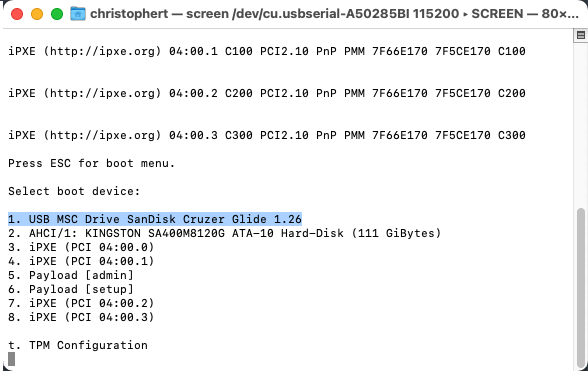
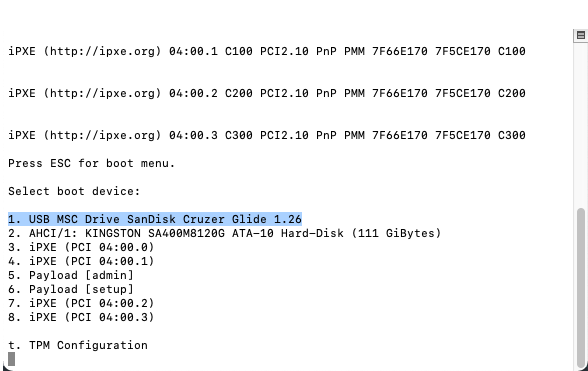
updates per review and meeting input

Changed region(s): [[0.0, 0.0, 0.9796, 0.0593], [0.9796, 0.0, 1.0, 0.0296]]

diff --git a/docs/onboard_ssr_device_otp.md b/docs/onboard_ssr_device_otp.md
@@ -3,7 +3,7 @@ title: Onboard an SSR Device using OTP
 sidebar_label: Onboard an SSR Device using OTP
 ---
 
-The steps in this section describe the process of **re-imaging an SSR1x0 or SSR1x00** for onboarding to a Conductor using the OTP process. This process is for SSR devices that **can not** use Mist for onboarding, telemetry, or WAN Assurance. 
+The steps in this section describe the process of **re-imaging an SSR1x0 or SSR1x00** for onboarding to a Conductor using the OTP process. This process is for SSR devices that **cannot** use Mist for onboarding, telemetry, or WAN Assurance. 
 
 :::important
 For customers or partners who can access Mist and are not in an "air-gap" network, the easiest way to onboard an SSR Device is to configure an account on Mist (this is free), and onboard to a conductor using ZTP. This provides a simple conductor onboarding process, and does not require access to Mist after the onboarding. See [ZTP Onboarding to a Conductor.](config_wan_assurance.md) **This process provides the ability to perform conductor-managed onboarding for customers who will not be using Mist Telemetry or WAN Assurance.**  
@@ -11,7 +11,7 @@ For customers or partners who can access Mist and are not in an "air-gap" networ
 
 ## Re-Imaging Process
 
-The image shipped on the SSR Devices is designed to connect with Mist and Mist WAN Assurance. To use these devices in a conductor-managed environment that does not have access to Mist, re-image the SSR Device with a generally available, package-based, OTP-compatible SSR software release. 
+The image shipped on the SSR Devices is designed to connect with Mist and Mist WAN Assurance. To use these devices in a conductor-managed environment that does not have access to Mist, re-image the SSR Device with a generally available, package-based, OTP-compatible SSR software release. The minimum requirement for re-imaging is SSR Version 5.4.9. OTP software images are located at the following location:
 
 <!-- markdown-link-check-disable-next-line -->
 - https://software.128technology.com/artifactory/list/generic-128t-isos-release-local
@@ -21,18 +21,16 @@ You will be prompted for your username and token to access the web page listing 
 See [Downloading an ISO](intro_downloading_iso.md#downloading-an-iso) for important information about the download process.
 
 :::note
-Use of non-GA, unofficial software releases will void the Juniper device warranty. Refer to [SSR Releases - General Availability](about_releases.mdx#general-availability) for the list of GA releases.
+Use of a non-GA software release will void the Juniper device warranty. Refer to [SSR Releases - General Availability](about_releases.mdx#general-availability) for the list of GA releases.
 :::
 
 ### Prerequisites
 
-- To successfully onboard an SSR using OTP, you must already have a Conductor up and running in the network where the SSR router can connect and receive configuration information. 
+- To successfully onboard an SSR using OTP, you must already have a [Conductor up and running](install_conductor_overview.md) in the network where the SSR router can connect and receive configuration information. 
 
 - The conductor **must have** a software version equal to or greater than the version that will be installed on the routers using OTP. 
 
-- To retain a valid warranty, the software used to re-image the SSR device must be an [**official Juniper GA Release of the SSR Software**](about_releases.mdx#general-availability), and a version equal to or greater than the version shipped on the device. 
-
-- An SSR1x0/1x00 may not be converted for use as a conductor. 
+- To retain a valid warranty, the software used to re-image the SSR device must be an [**official Juniper GA Release of the SSR Software**](about_releases.mdx#general-availability), and at a minumum, version 5.4.9. 
 
 ## OTP Re-Imaging Process
 
@@ -51,14 +49,15 @@ The process varies based on the SSR Device, as well as Mac and Windows.
 ```
 	ls -al /dev/*usb*
 ```
-7. In the terminal window, type `screen`, paste the serial port info, and add the baud rate. 
+7. Copy the serial port info displayed after running the command above. 
+8. In the terminal window, type `screen`, paste the serial port info, and add the baud rate as shown in the example below. 
 ```
-	screen /dev/cu.usbserial-A50285BI 115200
+	screen /dev/tty.usbserial-A50285BI 115200
 ```
-8. Press Enter.
-9. Insert your USB with the new ISO image into the USB port of the SSR device.
-10. Power up the SSR device. 
-11. Use the instructions below appropriate for your device (SSR1x0 or SSR1x00) to complete the re-imaging process.
+9. Press Enter.
+10. Insert your USB with the new ISO image into the USB port of the SSR device.
+11. Power up the SSR device. 
+12. Use the instructions below appropriate for your device (SSR1x0 or SSR1x00) to complete the re-imaging process.
 
 #### SSR1x0 Devices
 
@@ -93,7 +92,7 @@ The process varies based on the SSR Device, as well as Mac and Windows.
 2. Connect the RJ45/USB cable to the console port on the SSR1x0/1x00.
 3. Connect the USB end of the cable to your laptop.
 4. Connect the power input to the back of the SSR1x0/1x00, but do not power it up. 
-5. From the Windows Device Manager, open a PuTTY session, and select the serial port and baud rate.
+5. From the Windows Device Manager, open a [PuTTY](https://www.putty.org/) session, and select the serial port and baud rate.
 	
 	![PuTTY window](/img/putty-window.png)
 
@@ -105,7 +104,7 @@ The process varies based on the SSR Device, as well as Mac and Windows.
 
 1. At the instruction in the terminal window: `Press ESC for the boot menu`, do so. 
 
-	![Boot Menu prompt](/img/putty-ssr1x0-boot-menu.png)
+	![Boot Menu prompt](/img/onboard_otp_boot_device.png)
 
 2. From the boot menu, type the boot device number and press Enter.
 3. When the USB installer boot menu is displayed, follow the [Installing SSR Using OTP](intro_otp_iso_install.mdx#installing-ssr-using-one-touch-provisioning-otp) instructions to complete the installation process.
